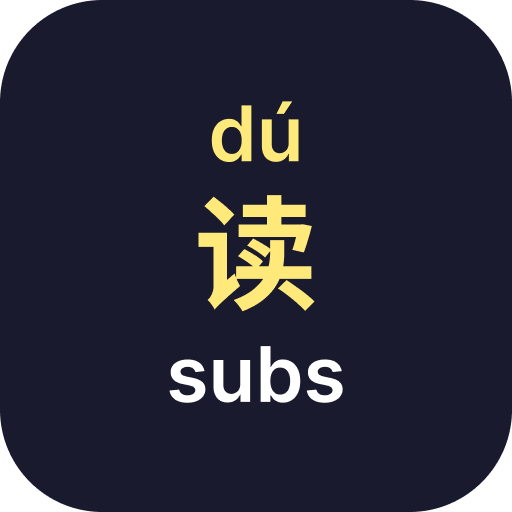
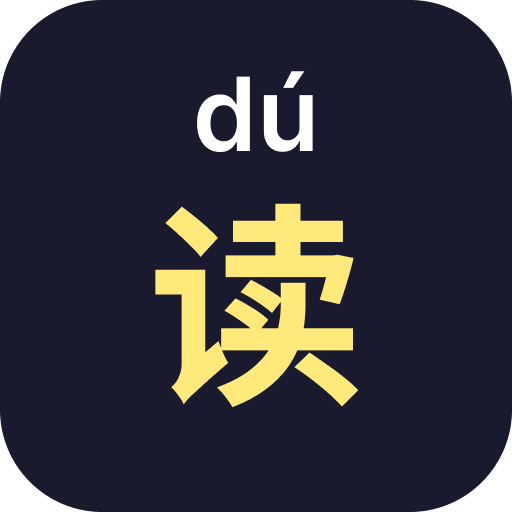
readme

Changed region(s): [[0.2812, 0.375, 0.7188, 0.8125], [0.375, 0.125, 0.625, 0.3125]]

diff --git a/README.md b/README.md
@@ -63,13 +63,11 @@ youtube-main.js        YouTube player API access (main world)
 background.js          Fetch proxy + webRequest intercept
 popup.html / popup.js  Settings popup
 subtitles.css          (unused legacy stylesheet)
-fonts/
-  Hanzi-Pinyin-Font.top.woff2
-  Hanzi-Pinyin-Font.top.ttf
+cedict.json            CC-CEDICT word list for word-level pinyin correction and definitions
+scripts/
+  make-dict.js         Downloads CC-CEDICT and generates cedict.json
 ```
 
 ## Credits
 
 Pinyin computation by [zh-lx/pinyin-pro](https://github.com/zh-lx/pinyin-pro).
-
-Hanzi-Pinyin font by [jtianling/hanzi-pinyin-font](https://github.com/jtianling/hanzi-pinyin-font) (font files retained, not currently used for rendering).